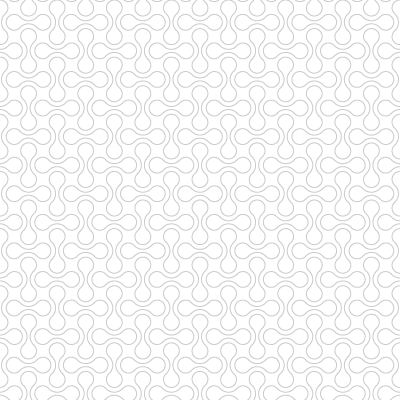
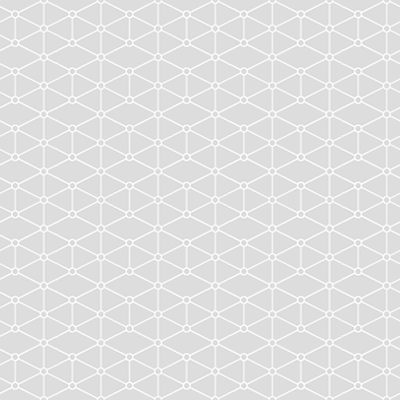
Changes to background

diff --git a/src/app/AppLayout.tsx b/src/app/AppLayout.tsx
@@ -66,7 +66,7 @@ export default function AppLayout() {
         <S.Content>
           {/* Dull the background image */}
           <S.Screen className="ant-layout-screen" />
-          <S.Page isMobile={!breakpoints.md}>
+          <S.Page extraPadded={breakpoints.md} isMobile={!breakpoints.md}>
             <RouterSwitch>
               {routes.map((route, index) => (
                 <Route key={index} path={route.path} exact={route.exact}>
@@ -89,9 +89,7 @@ const S = {
     left: 0;
     width: 100%;
   `,
-  Layout: styled(Layout)`
-    overflow-x: hidden;
-  `,
+  Layout: styled(Layout)``,
   SocialMediaImage: styled.img`
     ${(props) => props.theme.snippets.size32};
     ${(props) => props.theme.snippets.circular};
@@ -100,16 +98,47 @@ const S = {
     margin-top: ${(props) => props.theme.spacing.small};
   `,
   Page: styled.div<{ extraPadded?: boolean; isMobile: boolean }>`
-    padding: ${(props) => props.theme.spacing.large};
-    ${(props) => props.theme.snippets.dropshadow};
+    max-width: 1450px;
+    margin: 0 auto;
     position: relative;
+    padding: ${(props) =>
+      props.extraPadded
+        ? props.theme.spacing.large
+        : props.theme.spacing.medium};
+
+    ${(props) => props.theme.snippets.dropshadow};
+
     ${(props) =>
       props.isMobile
         ? css`
-            padding-top: 112px;
+            margin-top: 112px;
+
+            ${(props) =>
+              !props.theme.breakpoints.xxl &&
+              css`
+                margin-right: 20px;
+                margin-left: 20px;
+              `}
           `
         : css`
-            padding-top: 124px;
+            margin-top: 124px;
+            padding-top: 18px;
+
+            ${(props) =>
+              !props.theme.breakpoints.xxl &&
+              css`
+                margin-right: 40px;
+                margin-left: 40px;
+              `}
+          `}
+
+    ${(props) =>
+      props.theme.mode === "dark"
+        ? css`
+            background: ${(props) => props.theme.colors.black200};
+          `
+        : css`
+            background: ${(props) => props.theme.colors.white300};
           `}
   `,
   Breadcrumb: styled(Breadcrumb)`

diff --git a/src/app/screens/Splash.tsx b/src/app/screens/Splash.tsx
@@ -75,10 +75,22 @@ export default function Splash() {
           )}
         </Button.Group>
       </S.Actions>
-      <S.Steps progressDot current={step} responsive={true}>
-        <Step title="1. Foo" subTitle="First thing" />
-        <Step title="2. Bar" subTitle="First thing" />
-        <Step title="3. Baz" subTitle="First thing" />
+      <S.Steps progressDot={true} current={step} responsive={true}>
+        <Step
+          title="Foo"
+          subTitle="First thing"
+          description="Lorem ipsum dolor sit amet"
+        />
+        <Step
+          title="Bar"
+          subTitle="First thing"
+          description="Lorem ipsum dolor sit amet"
+        />
+        <Step
+          title="Baz"
+          subTitle="First thing"
+          description="Lorem ipsum dolor sit amet"
+        />
       </S.Steps>
       <Divider />
       <PoolList withBreadcrumb={false} centered={true} />
@@ -108,15 +120,21 @@ const S = {
     flex-direction: column;
     align-items: center;
     text-align: center;
+    padding-top: 3.5rem;
   `,
   Steps: styled(Steps)`
     margin-top: ${(props) => props.theme.spacing.huge};
+    align-items: center;
     max-width: 960px;
   `,
   Title: styled(Typography.Title)`
     ${(props) => props.theme.snippets.fancy};
     font-size: ${(props) =>
-      props.theme.isMobile ? "32px" : "86px"} !important;
+      props.theme.breakpoints.xl
+        ? "86px"
+        : props.theme.breakpoints.lg
+        ? "64px"
+        : "48px"} !important;
     max-width: 960px;
     line-height: 1.1;
     margin-bottom: 0 !important;

diff --git a/src/components/molecules/ChartCard.tsx b/src/components/molecules/ChartCard.tsx
@@ -55,20 +55,29 @@ export default function ChartCard({ poolId, expanded = false }: Props) {
         { time: "2019-04-19", value: 81.89 },
         { time: "2019-04-20", value: 74.43 },
       ]);
+
+      setTimeout(() => {
+        if (cardRef.current) {
+          chart.resize(
+            cardRef.current.clientWidth,
+            cardRef.current.clientHeight
+          );
+        }
+      }, 250);
     }
   }, [theme, expanded]);
 
   return (
     <S.ChartCard
       actions={[
-        <div onClick={toggleKind}>
-          <S.Switch key="1" checked={kind === "Value"} />
+        <S.Switcher key="1" onClick={toggleKind}>
+          <S.Switch checked={kind === "Value"} />
           Value
-        </div>,
-        <div onClick={toggleKind}>
-          <S.Switch key="2" checked={kind === "TotalValueLocked"} />
+        </S.Switcher>,
+        <S.Switcher key="2" onClick={toggleKind}>
+          <S.Switch checked={kind === "TotalValueLocked"} />
           Total Value Locked
-        </div>,
+        </S.Switcher>,
       ]}
       extra={
         <S.Menu mode="horizontal" selectedKeys={[timeframe]}>
@@ -112,7 +121,12 @@ const S = {
     text-align: center;
   `,
   Switch: styled(Switch)`
-    margin-right: ${(props) => props.theme.spacing.medium};
+    margin-bottom: ${(props) => props.theme.spacing.medium};
+  `,
+  Switcher: styled.div`
+    ${(props) => props.theme.snippets.perfectlyCentered};
+    flex-direction: column;
+    text-align: center;
   `,
 };
 

diff --git a/src/app/screens/PoolDetail.tsx b/src/app/screens/PoolDetail.tsx
@@ -118,7 +118,7 @@ export default function PoolDetail() {
 
     // Variants
     const mobileSized = (
-      <Row gutter={5}>
+      <Row gutter={25}>
         <Col span={24}>{performance}</Col>
         <Col span={24}>{chart}</Col>
         <Col span={24}>{interactions}</Col>
@@ -128,7 +128,7 @@ export default function PoolDetail() {
     );
     const tabletSized = (
       <>
-        <Row gutter={10}>
+        <Row gutter={25}>
           <Col span={12}>
             {performance}
             {chart}
@@ -138,7 +138,7 @@ export default function PoolDetail() {
             {interactions}
           </Col>
         </Row>
-        <Row gutter={10}>
+        <Row gutter={25}>
           <Col span={24}>{recents}</Col>
         </Row>
       </>
@@ -146,14 +146,14 @@ export default function PoolDetail() {
     const desktopSized = (
       <Row gutter={20}>
         <Col span={16}>
-          <Row gutter={20}>
+          <Row gutter={25}>
             <Col span={12}>
               {performance}
               {chart}
             </Col>
             <Col span={12}>{interactions}</Col>
           </Row>
-          <Row gutter={20}>
+          <Row gutter={25}>
             <Col span={24}>{recents}</Col>
           </Row>
         </Col>

diff --git a/src/components/organisms/CategoryCard.tsx b/src/components/organisms/CategoryCard.tsx
@@ -2,7 +2,7 @@ import { Card, List } from "antd";
 import { Link, useHistory } from "react-router-dom";
 import { Token } from "components/atoms";
 import React from "react";
-import styled from "styled-components";
+import styled, { css } from "styled-components";
 import type { Token as TokenType } from "indexed-types";
 
 export interface Props {
@@ -84,8 +84,6 @@ const S = {
     font-size: ${(props) => props.theme.fontSizes.huge};
   `,
   Card: styled(Card)`
-    width: ${(props) => (props.theme.isMobile ? "330px" : "375px")};
-
     .ant-card-head-title {
       ${(props) => props.theme.snippets.fancy};
       font-size: ${(props) => props.theme.fontSizes.large};
@@ -93,7 +91,12 @@ const S = {
     .ant-card-body {
       display: flex;
       align-items: center;
-      height: 300px;
+
+      ${(props) =>
+        !props.theme.isMobile &&
+        css`
+          max-width: 375px;
+        `}
     }
     .ant-card-meta-description {
       font-size: ${(props) => props.theme.fontSizes.large};

diff --git a/src/components/organisms/PoolCard.tsx b/src/components/organisms/PoolCard.tsx
@@ -4,7 +4,7 @@ import { Token } from "components/atoms";
 import { useHistory } from "react-router-dom";
 import RankedTokenList from "./RankedTokenList";
 import React from "react";
-import styled from "styled-components";
+import styled, { css } from "styled-components";
 
 export interface Props {
   pool: FormattedIndexPool;
@@ -51,8 +51,6 @@ const S = {
     font-size: ${(props) => props.theme.fontSizes.huge};
   `,
   Card: styled(Card)`
-    width: ${(props) => (props.theme.isMobile ? "330px" : "375px")};
-    height: 515px;
     overflow: auto;
 
     .ant-card-head-title {
@@ -61,9 +59,14 @@ const S = {
     }
     .ant-card-body {
       display: flex;
-      width: 370px;
-      height: 390px;
+      max-height: 515px;
       overflow: auto;
+
+      ${(props) =>
+        !props.theme.isMobile &&
+        css`
+          max-width: 375px;
+        `}
     }
   `,
   Title: styled.h1`

diff --git a/src/components/molecules/JazzIcon.tsx b/src/components/molecules/JazzIcon.tsx
@@ -42,7 +42,7 @@ export default function JazzIcon({ address }: Props) {
     if (_blockie) {
       const parsedAddress = parseInt(address.slice(2, 10), 16);
 
-      element = jazzicon(breakpoints.md ? 35 : 25, parsedAddress);
+      element = jazzicon(25, parsedAddress);
       element.style.border = "2px solid #ccccff";
 
       _blockie.appendChild(element);
@@ -90,7 +90,7 @@ export default function JazzIcon({ address }: Props) {
 
 const S = {
   JazzIcon: styled.div`
-    /* position: relative; */
+    position: relative;
   `,
   Blockie: styled.span`
     /* position: absolute;

diff --git a/src/app/AppHeader.tsx b/src/app/AppHeader.tsx
@@ -32,7 +32,9 @@ export default function AppHeader() {
 
   // Common
   const walletButton = selectedAddress ? (
-    <JazzIcon address={selectedAddress} />
+    <S.Wallet>
+      <JazzIcon address={selectedAddress} />
+    </S.Wallet>
   ) : (
     <WalletConnectorButton />
   );
@@ -139,5 +141,9 @@ const S = {
     > :first-child {
       margin-right: 10px;
     }
+  `,
+  Wallet: styled.div`
+    position: relative;
+    top: 4px;
   `,
 };

diff --git a/src/theme/modes/light-mode.less b/src/theme/modes/light-mode.less
@@ -6,10 +6,6 @@
   background: #fff;
 }
 
-body {
-  background-image: url("../../assets/images/light-bg.png");
-}
-
 .ant-layout-screen {
   background: rgba(255, 255, 255, 0.4);
 }
@@ -24,4 +20,9 @@ body {
 
 .ant-switch {
   background: #ccccff;
+}
+
+.ant-layout-content {
+  position: relative;
+  background-image: url("../../assets/images/light-bg.png");
 }

diff --git a/src/theme/modes/dark-mode.less b/src/theme/modes/dark-mode.less
@@ -49,7 +49,7 @@
 }
 
 .ant-layout-screen {
-  background: rgba(0, 0, 0, 0.4);
+  background: rgba(204, 204, 255, 0.2);
   animation: flickering 7s ease-in-out infinite;
 }
 
@@ -57,7 +57,7 @@
   background: #0a0a0a;
 }
 
-.ant-switch {
+.ant-switch[aria-checked="true"] {
   background: #4d4d80;
 
   &-inner {

diff --git a/src/app/screens/PoolChart.tsx b/src/app/screens/PoolChart.tsx
@@ -14,7 +14,7 @@ export default function PoolChart() {
     return (
       <>
         <ScreenHeader
-          title={pool.name}
+          title={`${pool.name} Chart`}
           overlay={<PoolDropdown />}
           activeBreadcrumb={<Link to="/pools">Index Pools</Link>}
         />

diff --git a/src/app/AppMenu.tsx b/src/app/AppMenu.tsx
@@ -131,6 +131,7 @@ export default function AppMenu({ onItemClick = noop, ...rest }: Props) {
 
 const S = {
   Menu: styled(Menu)`
+    max-width: 400px !important;
     height: calc(100% - 65px);
     max-width: 100vw;
     overflow: hidden;
